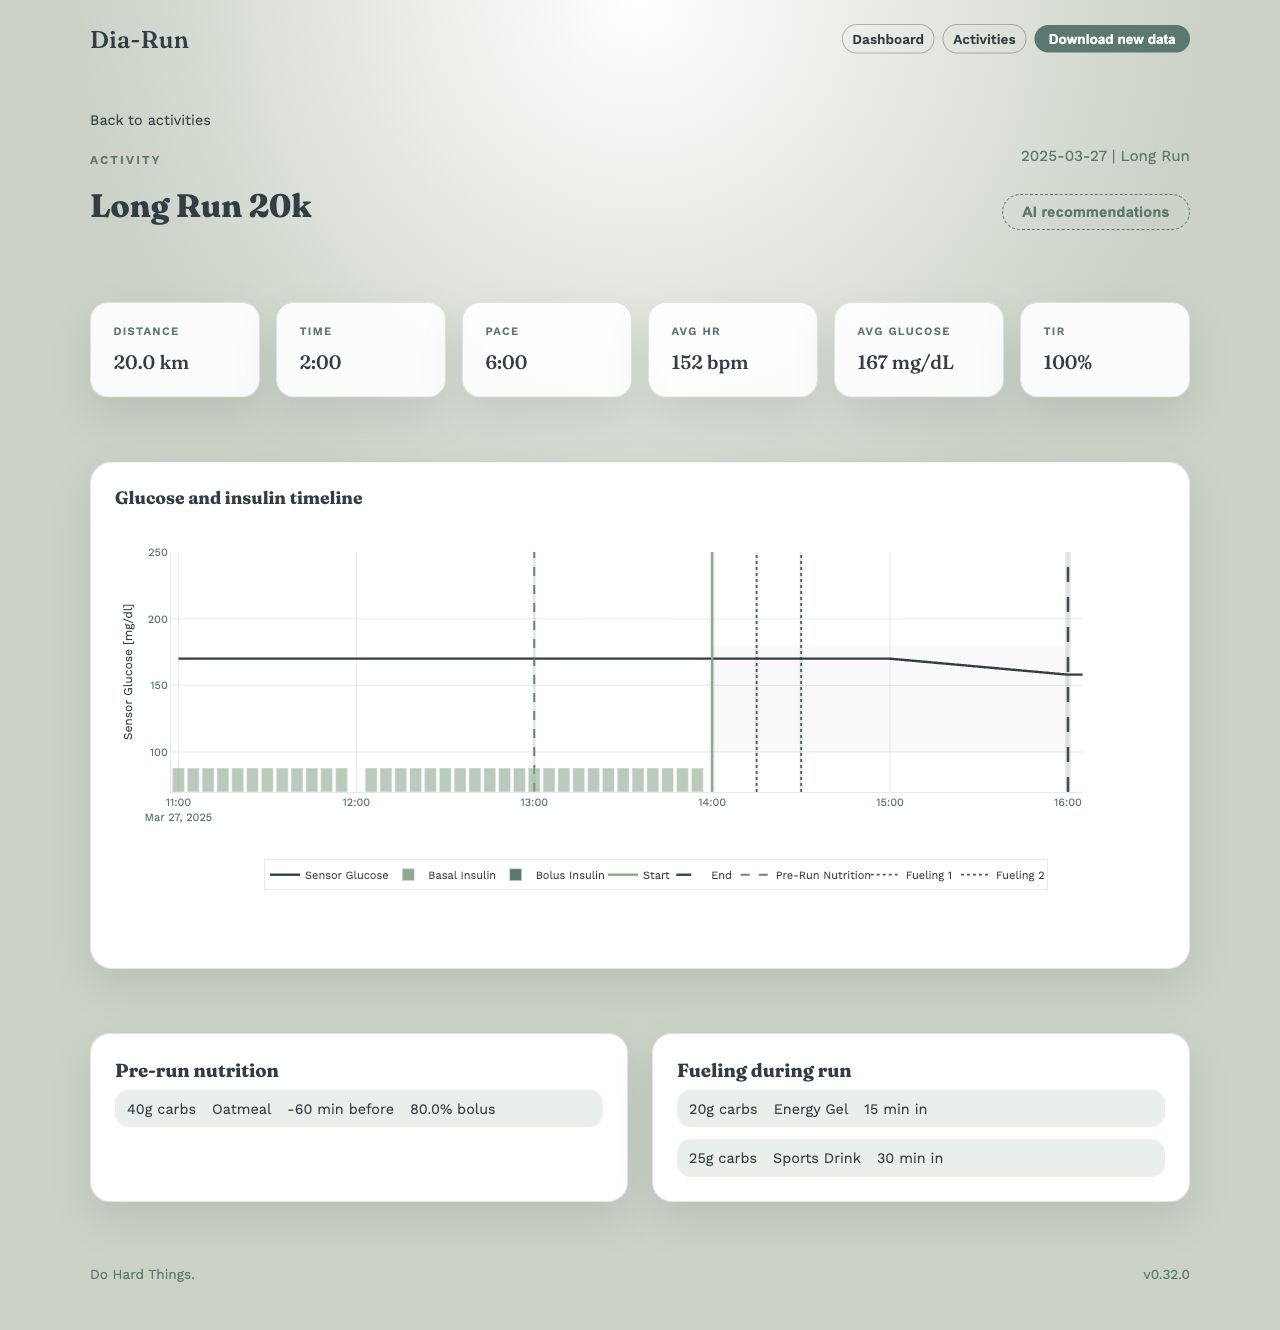
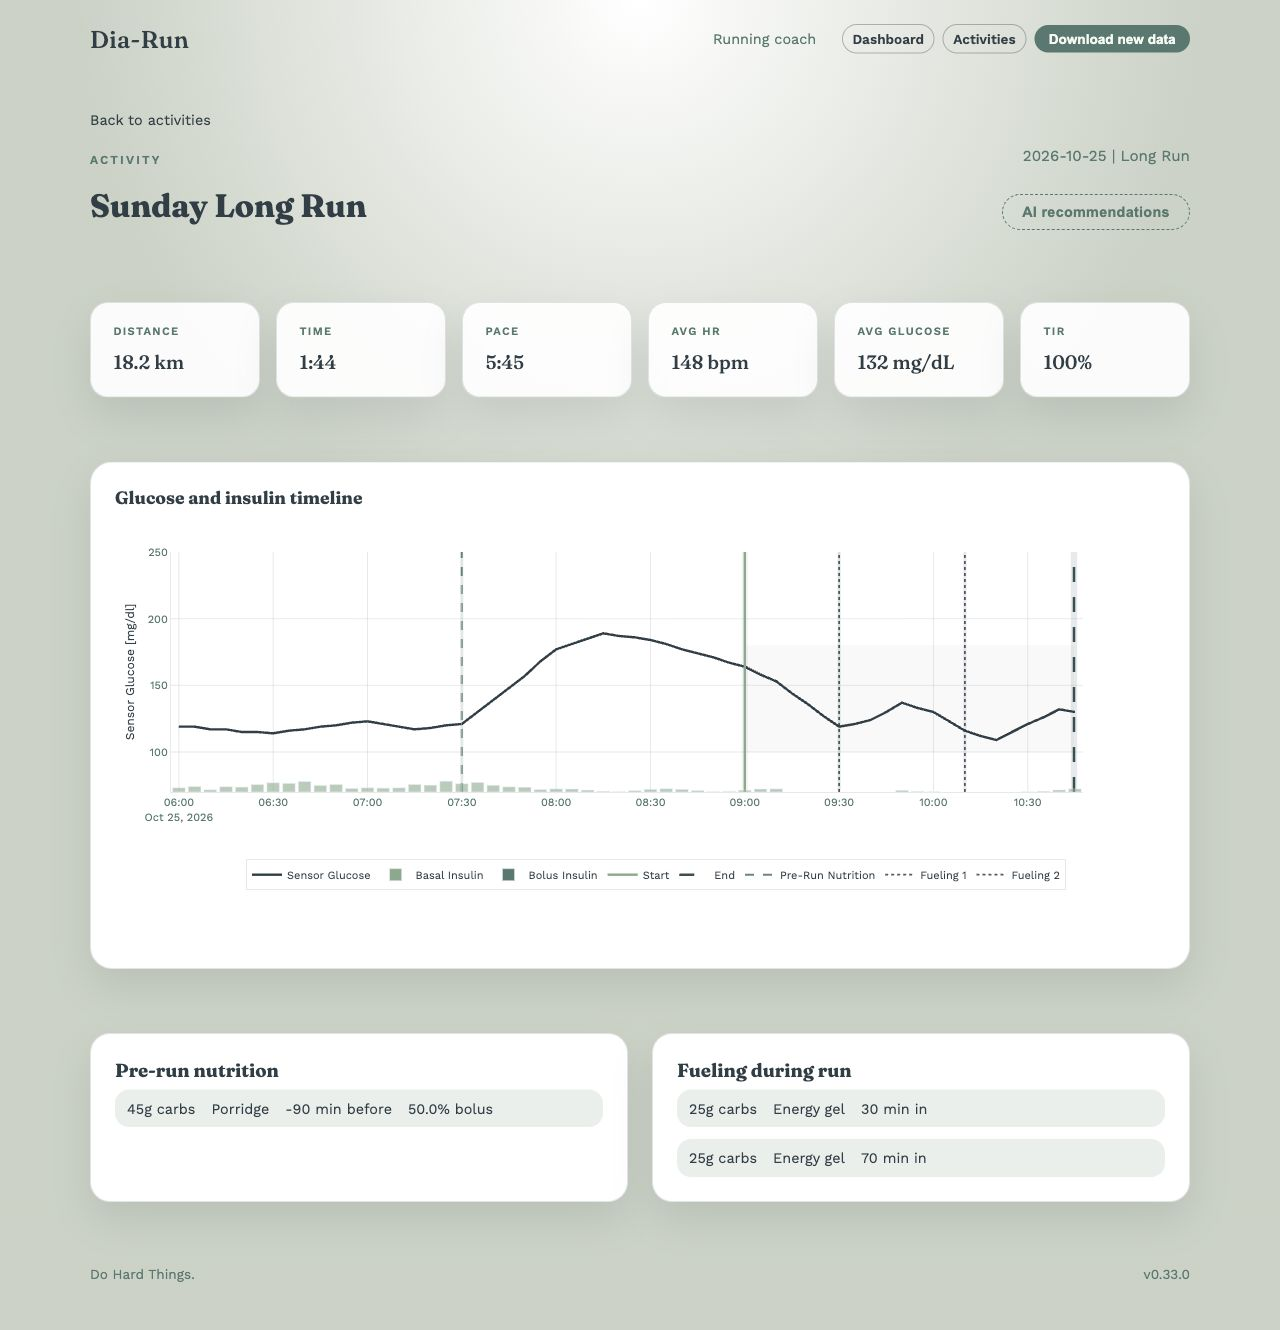
docs: improve activity screenshot and describe running coach

diff --git a/README.md b/README.md
@@ -4,7 +4,7 @@ Dia-Run brings Strava running activities and Medtronic CareLink glucose and insu
 
 ![Activity detail with run metrics, glucose and insulin timeline, and fueling entries](docs/images/activity-detail.jpg)
 
-*Activity detail shown with synthetic test data.*
+*Activity detail shown with illustrative synthetic data.*
 
 ## What it does
 
@@ -12,6 +12,7 @@ Dia-Run brings Strava running activities and Medtronic CareLink glucose and insu
 - Compares runs by type, distance, glucose outcomes, and preparation.
 - Records pre-run nutrition, basal settings, fueling, and boluses through a questionnaire.
 - Provides optional AI run recommendations through OpenRouter.
+- Includes a conversational AI running coach to review activities, compare runs, and plan training with remembered goals and preferences.
 - Includes a mock-data mode for exploring the app without connected accounts.
 
 Built with **Python 3.12**, **FastAPI**, **Jinja2**, and **Plotly**, with **Polars** for processing, **Delta Lake** for storage, and **Pandera/Pydantic** for validation.
@@ -59,6 +60,8 @@ The importer checks the latest Strava activity and imports it only if it is a ru
 ## Optional features
 
 **AI recommendations:** Set `OPENROUTER_API_KEY` in `.env` to enable recommendations on activity pages. Requests send run and health context to OpenRouter and the selected model provider. `OPENROUTER_MODEL` selects the model.
+
+For the **AI running coach**, also set `COACH_ENABLED=true` and open **Running coach**. It can discuss your running, fueling, and glucose history and remember relevant context across conversations. See the [coach guide](docs/coach.md) for consent, memory controls, and storage details.
 
 **Docker:** After completing account setup locally, start the web app with:
 
